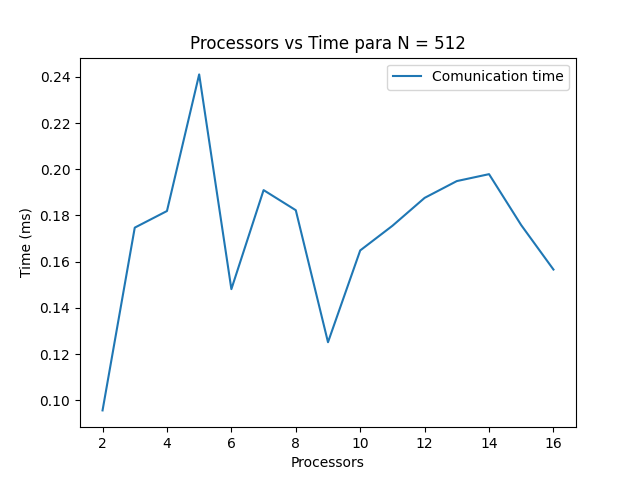
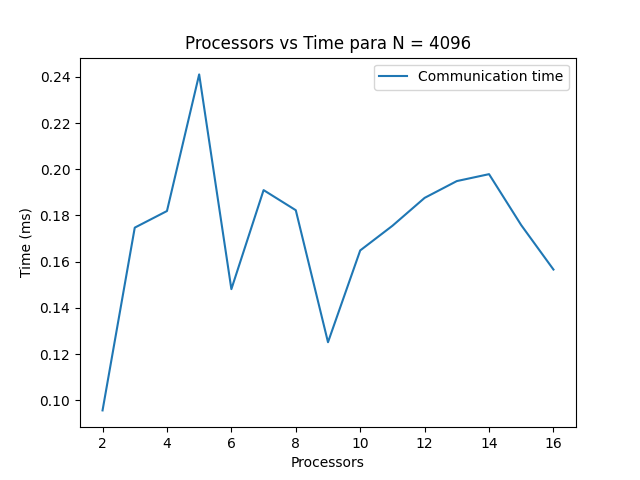
- done

Changed region(s): [[0.2812, 0.0625, 0.875, 0.1875], [0.5938, 0.1562, 0.625, 0.1875]]

diff --git a/practica-3/data_graph.py b/practica-3/data_graph.py
@@ -3,9 +3,9 @@ import numpy as np
 import matplotlib.pyplot as plt
 from os import path
 
-P = [i for i in range(1,17)]
+P = [i for i in range(2,17)]
 
-data = pd.read_csv('p2-b.csv', sep=',').to_numpy()
+data = pd.read_csv('P1/p1.csv', sep=',').to_numpy()
 data = data[:,1:]
 
 prom = []
@@ -13,10 +13,10 @@ for list_ in data:
     prom.append(np.mean(list_))
 
 # Plot data
-plt.title('Processors vs Time para N = 1024')
-plt.plot(P, prom, label='Latency time')
+plt.title('Processors vs Time para N = 4096')
+plt.plot(P, prom, label='Communication time')
 plt.legend()
 plt.xlabel('Processors')
 plt.ylabel('Time (ms)')
-plt.savefig('graphPvsT-2b.png')
+plt.savefig('graphPvsT.png')
 

diff --git a/practica-3/readme-b.md b/practica-3/readme-b.md
@@ -1,0 +1,18 @@
+## Ejercicio N°1
+
+Para este experimento se promediaron 10 ejecuciones del archivo `p1.cpp`y para cada set se modificó el número de procesadores en el rango de 2 a 16.
+
+Como se observa en la gráfica, el tiempo de comunicación entre procesos aumenta a partir de p > 2. A partir de este hito, los tiempos de comunicación fluctúan y jamás alcanzan un valor menor a 2.
+
+## Ejercicio N°2
+
+Observamos que ambas gráficas tienen tiempos promedios bajos para representar a la latencia, entre 0.02 y 0.10 ms. Sin embargo, este tiempo es menor y más uniforme en la comunicación no bloqueada, lo que nos demuestra que representa mejor al tiempo de latencia debido a que no hay bloqueos y, por lo tanto, el tiempo de ejecución del programa representa mejor a la latencia. 
+
+La diferencia entre los tiempos promedio de latencia calculados a partir de las gráficas sería 0.08 ms en la comunicación bloqueada y 0.02 ms en la no bloqueada, lo que da una diferencia de 0.06 ms.
+
+
+## Ejercicio N°3
+
+Tomando en cuenta que la eficiencia óptima es 1, podemos observar que mientras más procesadores la eficiencia converge a 0 esto debido al alto tiempo de comunicación entre los procesos y el master (proceso 0) para obtener el resultado deseado. Se experimentó con N potencias de 2 para lograr una mejor división y con valores como [128, 256, 512, 1024]. En todos, el valor de eficiencia decae casi en la misma proporción.
+
+Con un N constante podemos ver que los tiempos de comunicación crecen a medida que el número de procesadores aumenta, esto debido a que se tendrá que hacer el Scatter y Broadcast a más procesos y a su vez el número de Gather también aumenta. Sin embargo, podemos observar que el tiempo de computo decrece esto en relación al número de filas que procesa cada uno. En general, el tiempo total crece con el número de procesadores y no podemos ver un cruce entre el tiempo de comunicacion y cómputo; por lo que, podemos decir que el "p" óptimo es menor a 2. Es decir, en este caso el caso secuencial es mucho más rápido que con programación paralela.
